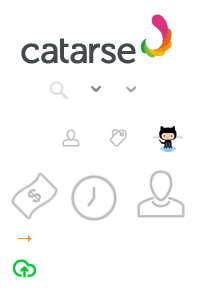
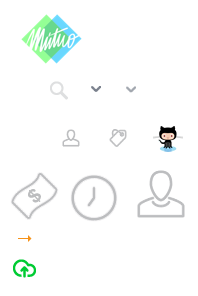
mutuo stuff

Changed region(s): [[0.0909, 0.0304, 0.8788, 0.2128]]

diff --git a/app/assets/stylesheets/miv/_header.sass b/app/assets/stylesheets/miv/_header.sass
@@ -19,7 +19,7 @@ $orange: #F69219
     float: left
     height: 50px
     text-indent: -9999em
-    width: 151px
+    width: 67px
     transition: 0.4s all
     &:hover
       opacity: 0.5
